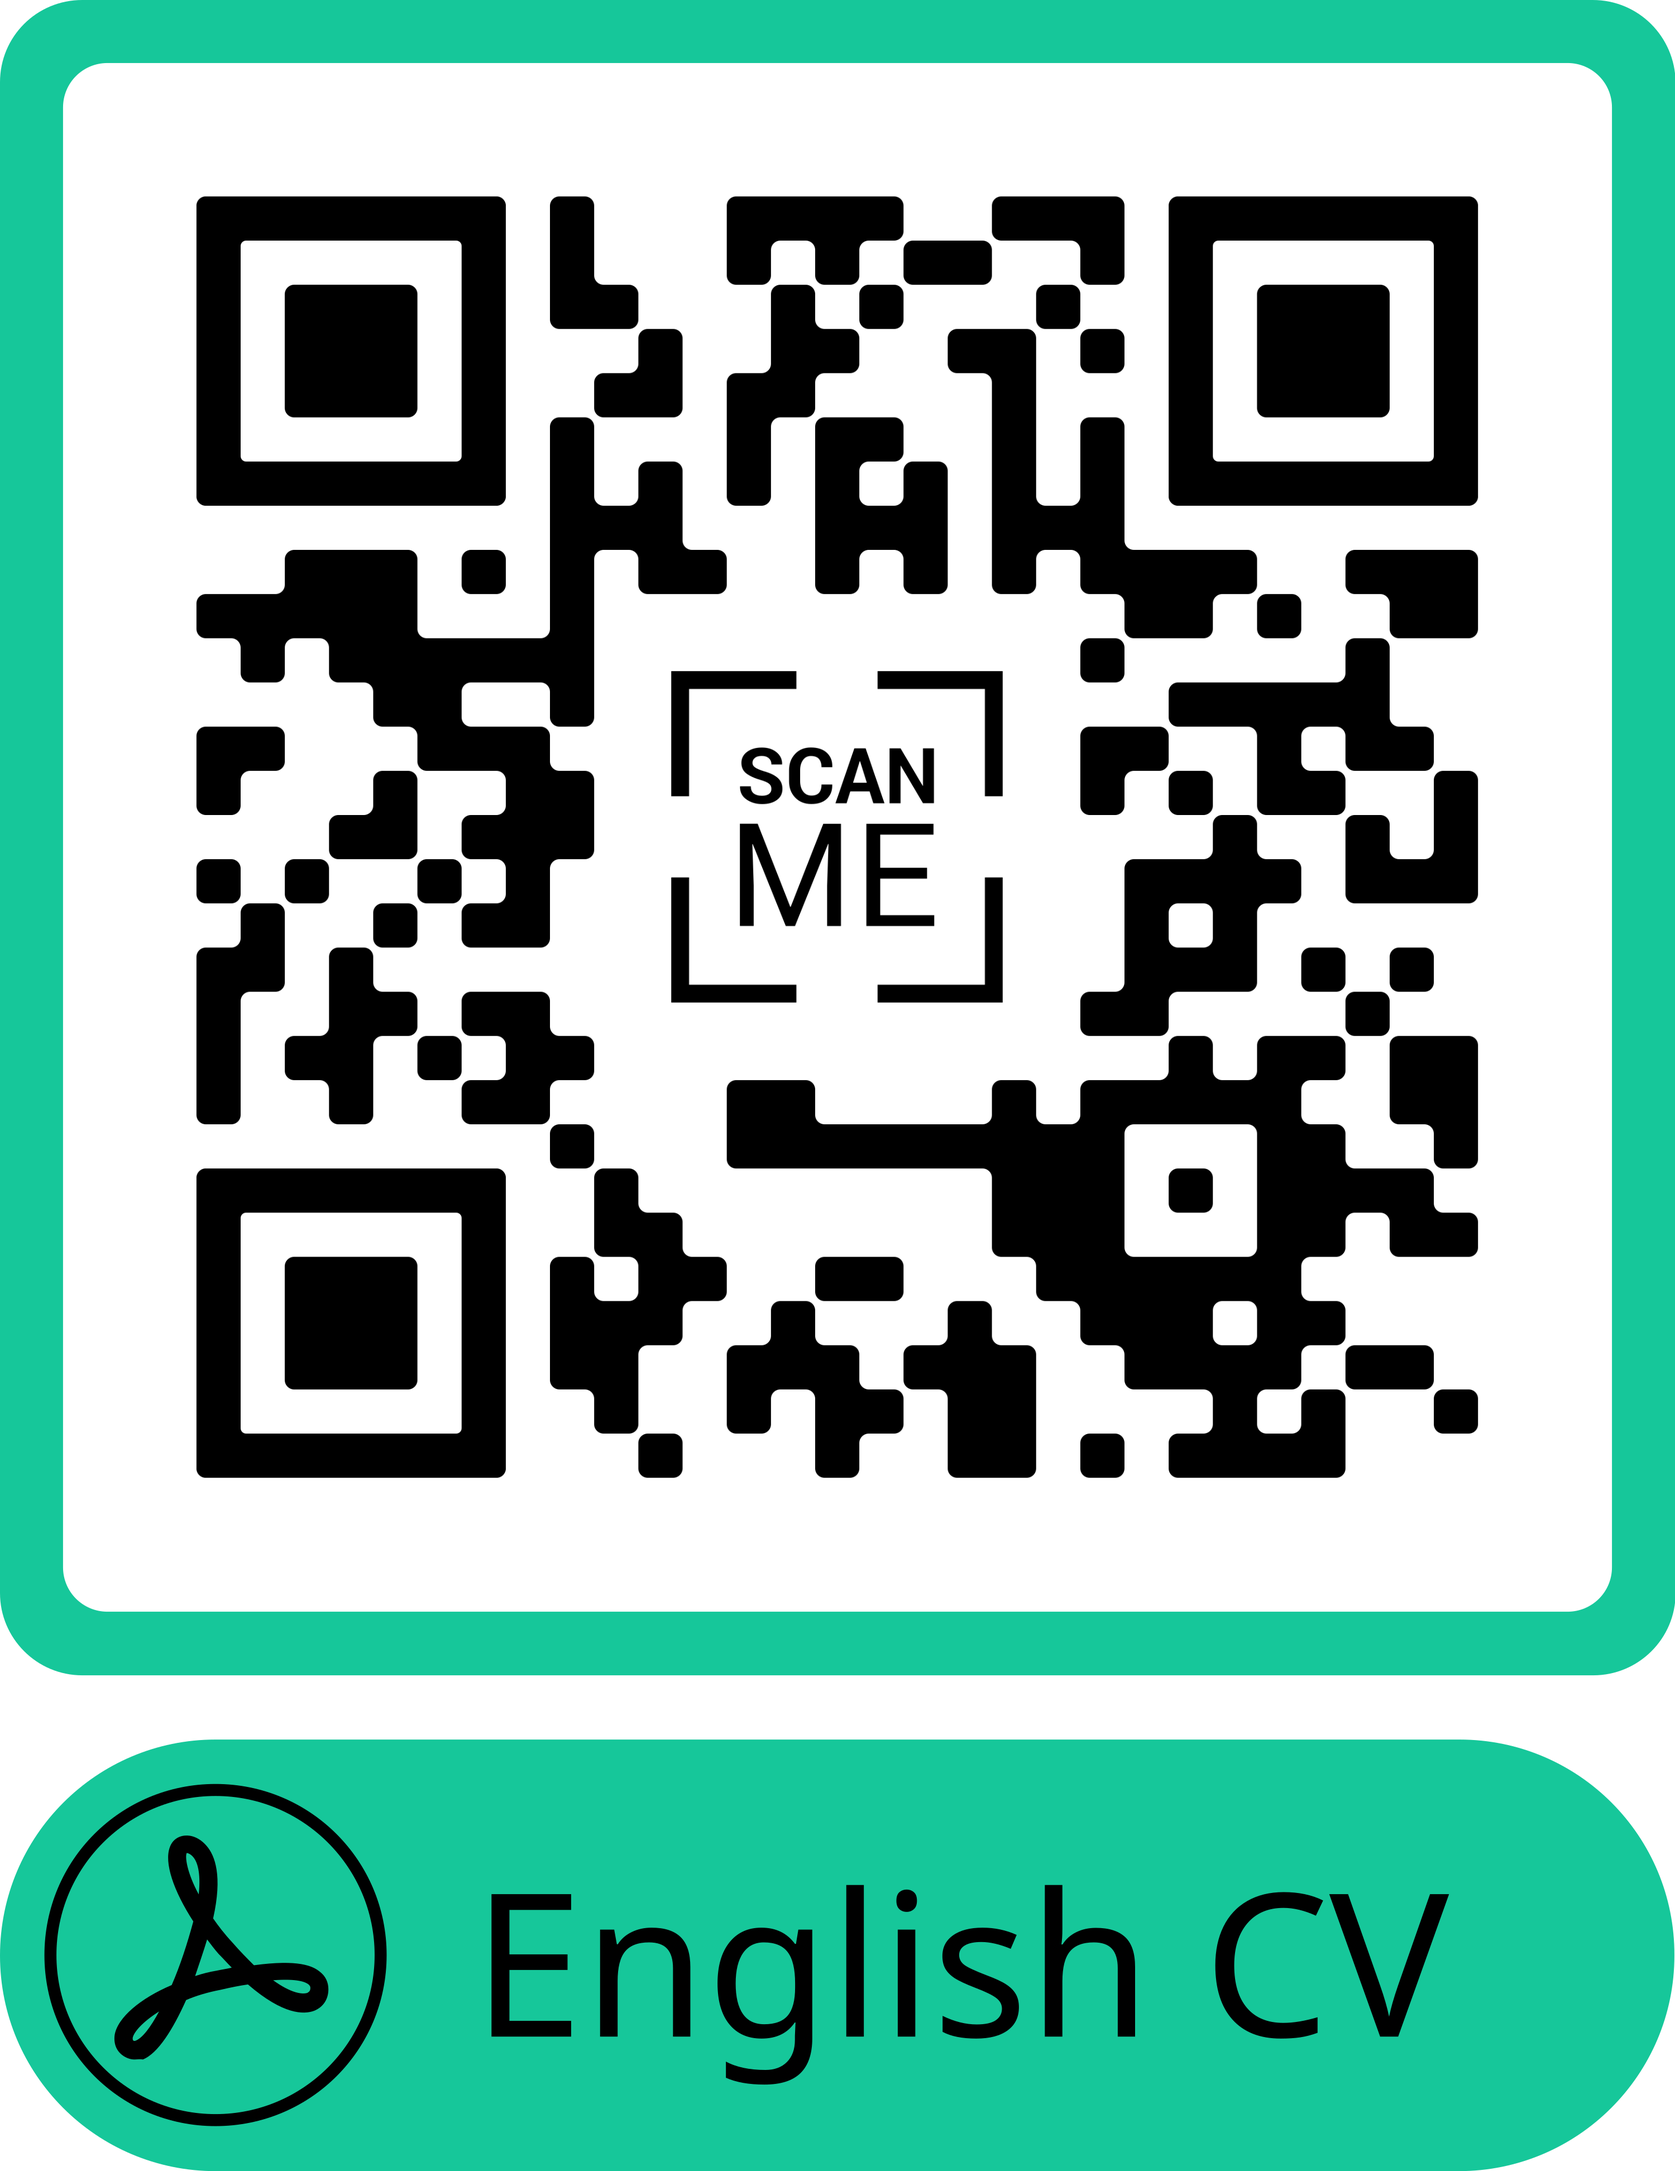
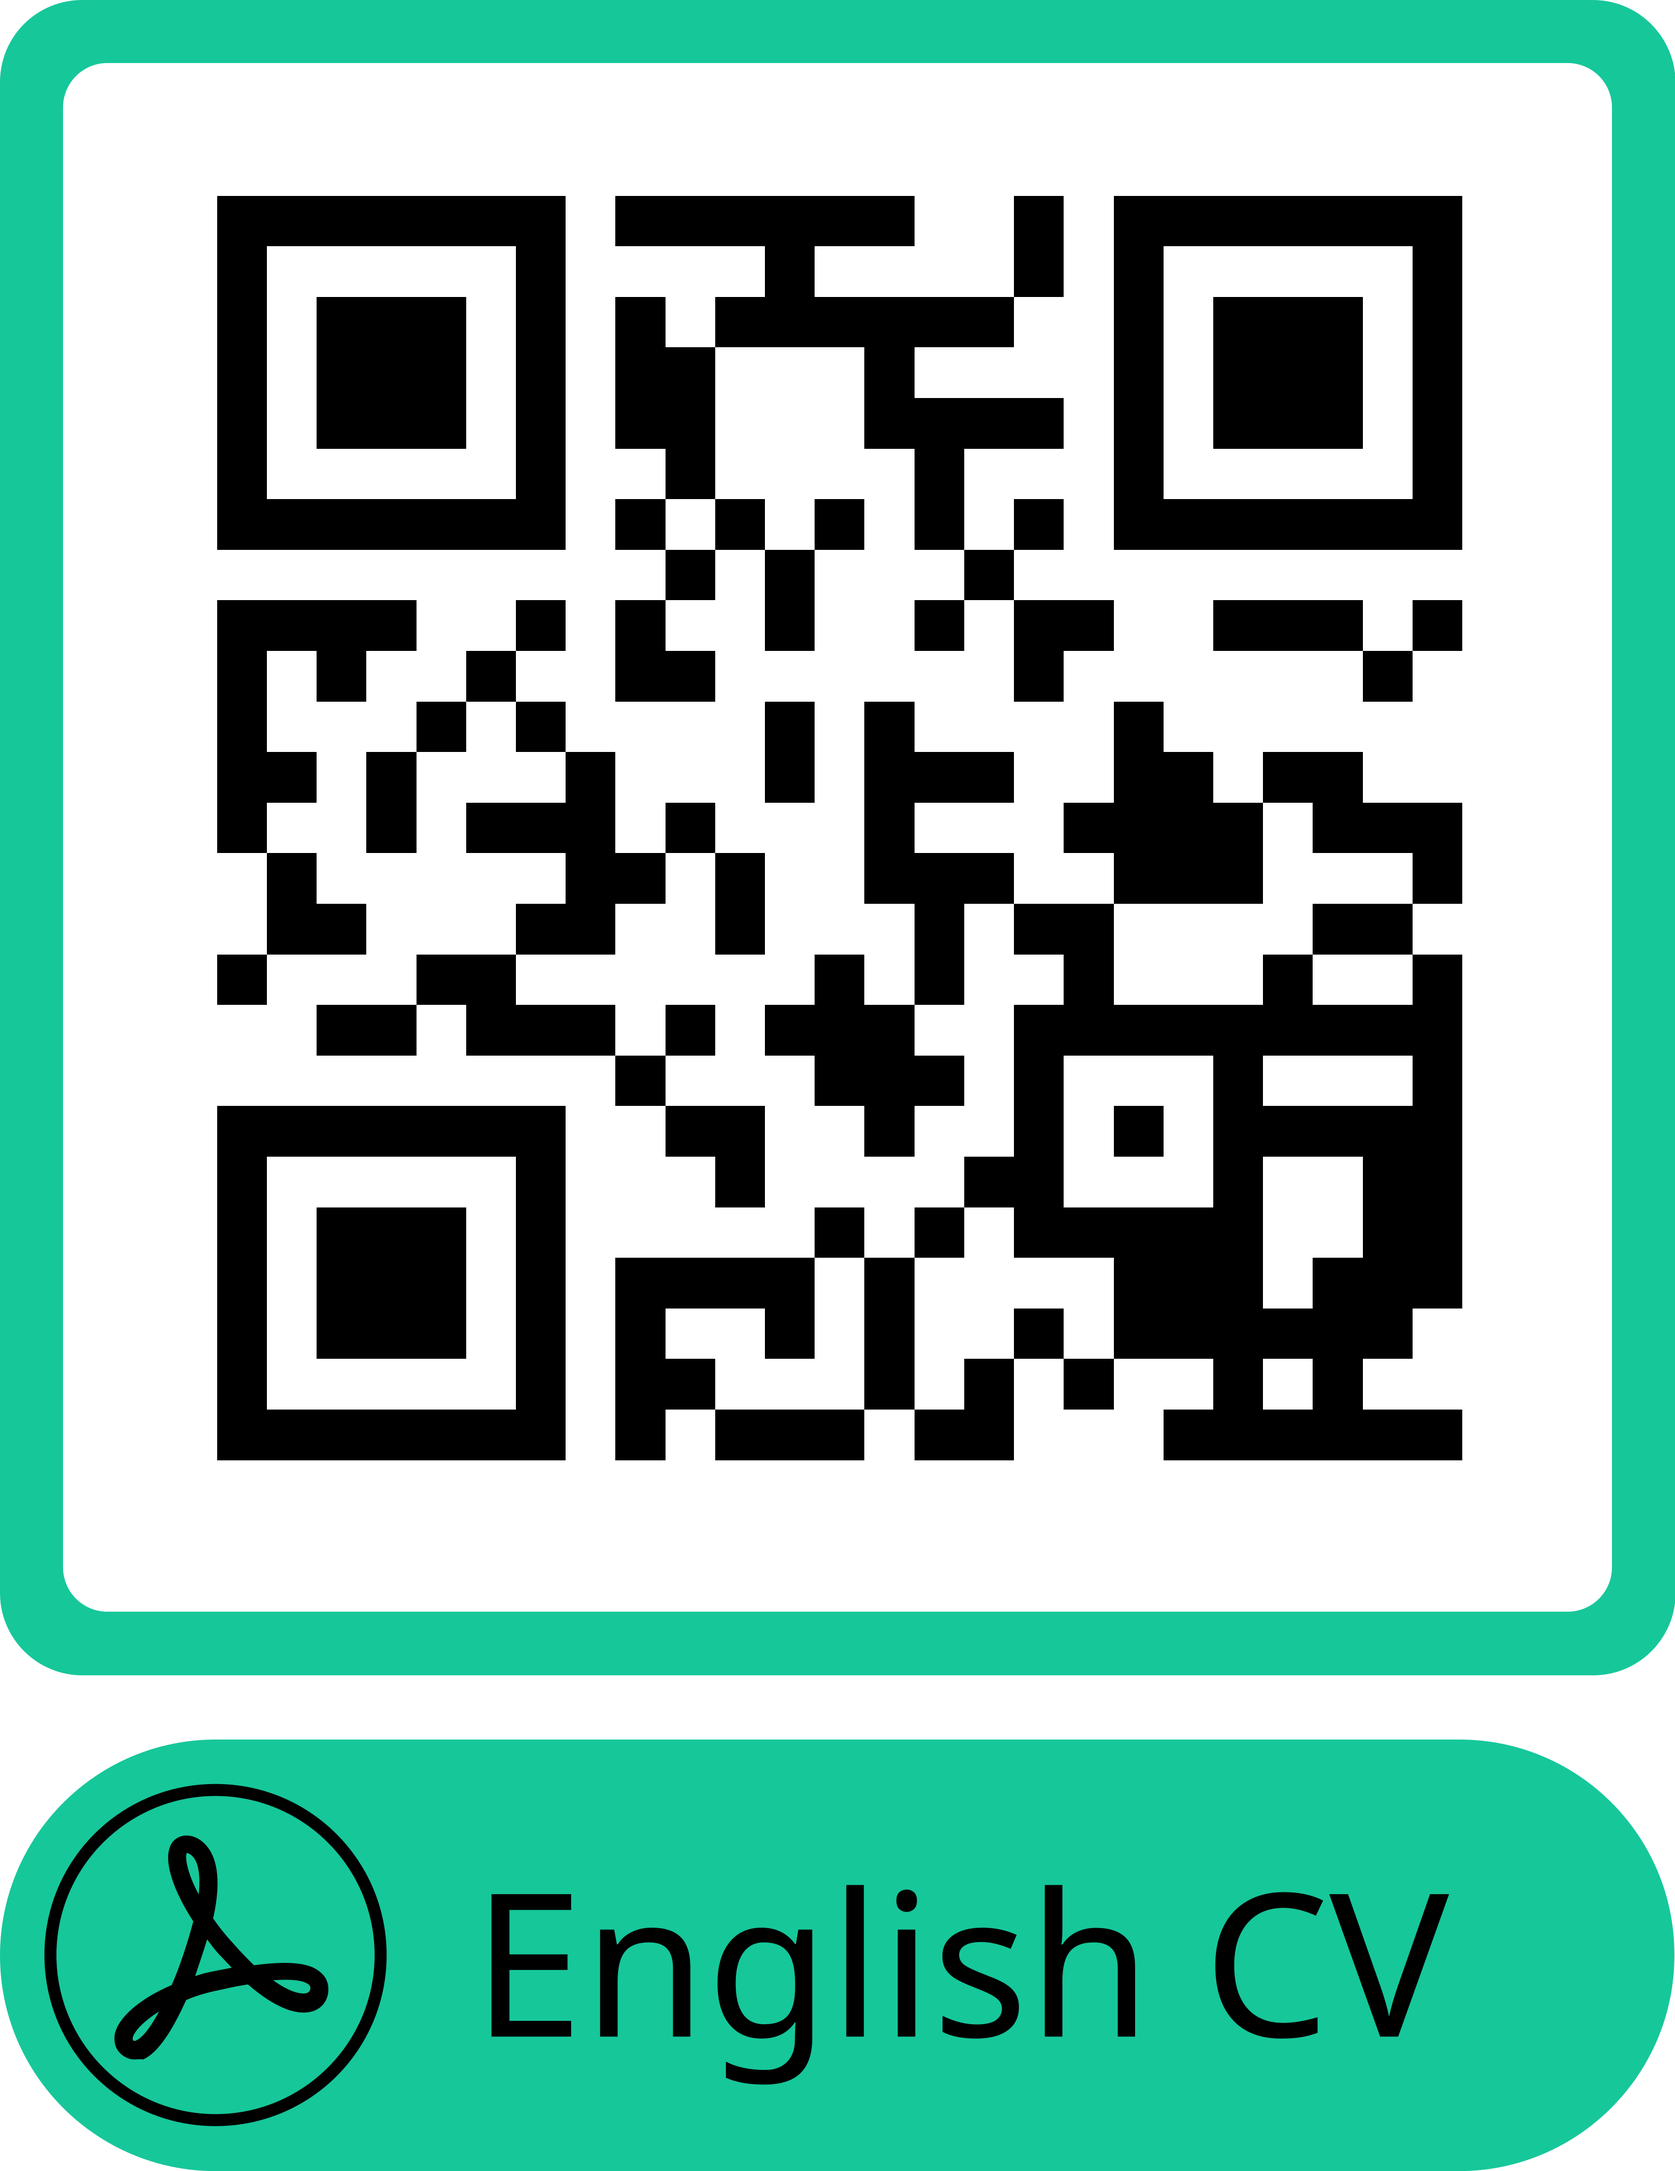
Migrated to QR free platform

Changed region(s): [[0.093, 0.0933, 0.899, 0.6845]]

diff --git a/index.html b/index.html
@@ -223,10 +223,10 @@
             /></a>
           </div>
           <div class="qr-codes">
-            <a href="https://qrco.de/bbx236"
+            <a href="https://pdfhost.io/v/FDoJh7kpU_ENGLISH_CV.pdf"
               ><img src="images/english_cv.png"
             /></a>
-            <a href="https://qrco.de/bbx251"
+            <a href="https://qrgo.page.link/5Sr7g"
               ><img src="images/spanish_cv.png"
             /></a>
           </div>
